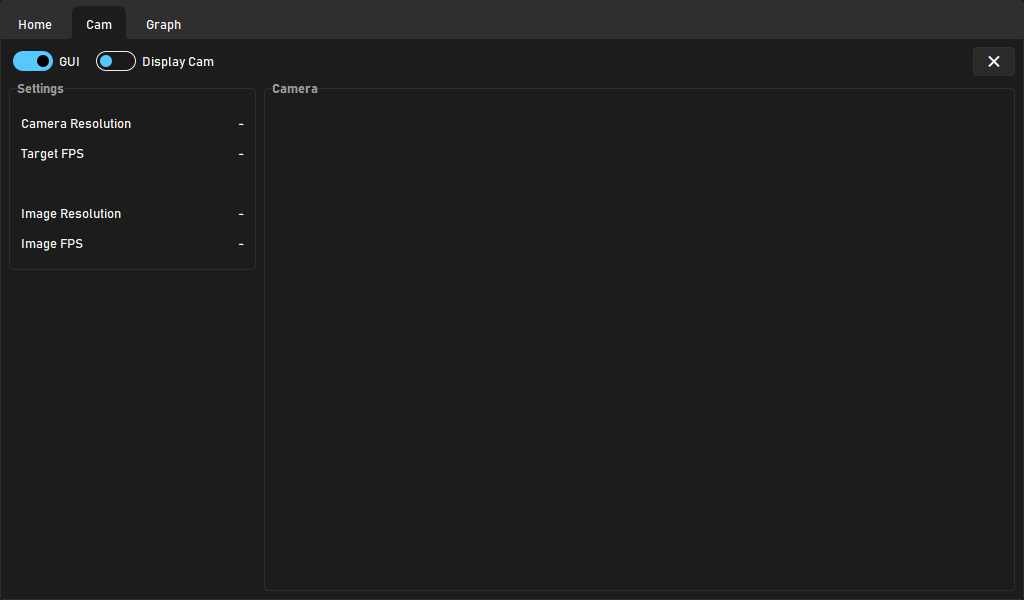
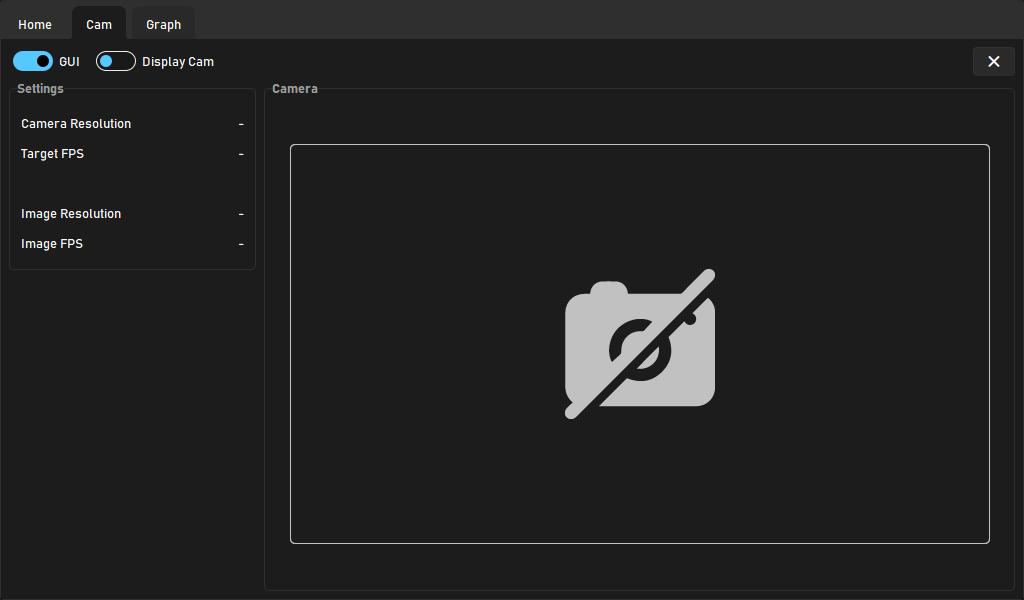
Update
- Changed Key Binds
- Added Photos

Changed region(s): [[0.5312, 0.45, 0.7188, 0.69]]

diff --git a/raspberry_main.py b/raspberry_main.py
@@ -184,10 +184,10 @@ def steering_cal():
         reading = read_steering_encoder(1)
         left_max_mean_left_encoder += reading
     left_max_mean_left_encoder /= 10
-    for _ in range(10):
-        reading = read_steering_encoder(0)
-        left_max_mean_right_encoder += reading
-    left_max_mean_right_encoder /= 10
+    # for _ in range(10):
+    #     reading = read_steering_encoder(0)
+    #     left_max_mean_right_encoder += reading
+    # left_max_mean_right_encoder /= 10
     
     # Steer to Max Right & Calibrate Both Potentiometer
     while not gpio.input(right_limit):
@@ -222,6 +222,39 @@ def steering_cal():
     print('Steering Calibration Complete')
 
 
+def steering_to_center():
+    global digital_steer
+
+    conn_jetson.send(bytes('angle' + str(0), encoding = 'utf-8'))
+    steer_to_angle(left_center_angle, 1)
+    
+    dic = {'steer_angle': 0}
+    
+    import shared_variables
+    update_dic(dic, shared_variables.steer_dic)
+    
+
+def steering(state):
+    global digital_steer
+    
+    if state == -1 and digital_steer > -5:
+        digital_steer -= 1
+    if state == 1 and digital_steer < 5:
+        digital_steer += 1
+        
+    conn_jetson.send(bytes('angle' + str(digital_steer), encoding = 'utf-8'))
+    steer_to_angle(left_steering_range / 10 * digital_steer + (left_center_angle), 1)
+    
+    dic = {'steer_angle': digital_steer * 3}
+    
+    import shared_variables
+    update_dic(dic, shared_variables.steer_dic)
+
+
+def update_dic(dic, shared_dic):
+    shared_dic.update(dic)
+
+
 def controller_command_handling():
     global digital_steer, terminate_socket, j, conn_jetson
     
@@ -236,21 +269,21 @@ def controller_command_handling():
                 keybindCommandDict[event.code](event.state)
             
             # BUTTONS OVERVIEW #
-            # CONTROL LOOP              >>> START_BTN
-            # DISCONNECT                >>> BACK_BTN
-            # STEER LEFTRIGHT           >>> ABS_HAY0X
-            # MOTOR FORWARD/BACKWARD    >>> ABS_HAYOY
-            # MOTOR CALIBRATION         >>> WEST_BTN (X)
-            # STEER CALIBRATION         >>> NORTH_BTN (Y)
-            # STEER TO CENTER           >>> SOUTH_BTN (A)
-            # MOTOR STOP                >>> EAST_BTN (B)
+            # CONTROL LOOP              >>> BTN_START
+            # DISCONNECT                >>> BTN_BACK
+            # STEER LEFT/RIGHT          >>> ABS_HAY0X (-1)(1)
+            # MOTOR FORWARD/BACKWARD    >>> ABS_HAYOY (-1)(1)
+            # STEER CALIBRATION         >>> BTN_NORTH (Y)
+            # STEER TO CENTER           >>> BTN_SOUTH (A)
+            # MOTOR STOP                >>> BTN_EAST (B)
+            # MOTOR CALIBRATION         >>> BTN_WEST (X)
             # START TRAINING            >>> BTN_TR
             # STOP TRAINING             >>> BTN_TL
             # ENABLE MOTOR CONTROL      >>> ABS_RZ & ABS_Z
             
             # Steering Calibration
             if event.code == 'BTN_START' and event.state == 1:
-                conn_jetson.send(b'calibration')
+                print('Control Loop')
             # Quit Program
             elif event.code == 'BTN_BACK' and event.state == 1:
                 set_motor_power(0)
@@ -263,18 +296,20 @@ def controller_command_handling():
                 return
               
             # Action Buttons (X)(Y)(A)(B)
-            elif event.code == 'BTN_EAST' and event.state == 1:
-                conn_jetson.send(b'stop')
-            elif event.code == 'BTN_WEST' and event.state == 1:
-                conn_jetson.send(b'start_training')
+            elif event.code == 'BTN_NORTH' and event.state == 1:
+                steering_cal()
             elif event.code == 'BTN_SOUTH' and event.state == 1:
                 steering_to_center()
+            elif event.code == 'BTN_EAST' and event.state == 1:
+                conn_jetson.send(b'motor_stop')
+            elif event.code == 'BTN_WEST' and event.state == 1:
+                conn_jetson.send(b'motor_calibration')
             
             # Trigger Buttons
             elif event.code == 'BTN_TR' and event.state == 1:
-                conn_jetson.send(b'stop_training')
+                conn_jetson.send(b'start_training')
             elif event.code == 'BTN_TL' and event.state == 1:
-                print('start capturing')
+                conn_jetson.send(b'stop_training')
                 
             # D-Pad Buttons
             # Patching Buttons with 3 States
@@ -308,40 +343,6 @@ def controller_command_handling():
                     keybindCommandDict[event.code+'_1'](0)
 
 
-def steering_to_center():
-    global digital_steer
-
-    conn_jetson.send(bytes('angle' + str(0), encoding = 'utf-8'))
-    steer_to_angle(left_center_angle, 1)
-    
-    dic = {'steer_angle': 0}
-    
-    import shared_variables
-    update_dic(dic, shared_variables.steer_dic)
-    
-
-
-def steering(state):
-    global digital_steer
-    
-    if state == -1 and digital_steer > -5:
-        digital_steer -= 1
-    if state == 1 and digital_steer < 5:
-        digital_steer += 1
-        
-    conn_jetson.send(bytes('angle' + str(digital_steer), encoding = 'utf-8'))
-    steer_to_angle(left_steering_range / 10 * digital_steer + (left_center_angle), 1)
-    
-    dic = {'steer_angle': digital_steer * 3}
-    
-    import shared_variables
-    update_dic(dic, shared_variables.steer_dic)
-
-
-def update_dic(dic, shared_dic):
-    shared_dic.update(dic)
-
-
 # Start Function as Background Thread
 def start_thread(name, target):
     thread = Thread(name=name, target=target, daemon=True)
@@ -368,7 +369,7 @@ def exit():
     gpio.cleanup()
     conn_jetson.send(b'disconnect')
     time.sleep(1)
-    
+
     terminate_socket = True
     conn_jetson.shutdown(socket.SHUT_RDWR)
     conn_jetson.close()

diff --git a/GUIs/LiveCam.py b/GUIs/LiveCam.py
@@ -27,7 +27,7 @@ def switchCamera(frame, toggle):
     elif toggle.get() == 0:
         camOn = False
         cap.release()
-        frame.configure(image='')
+        showCameraDisabled(frame)
 
 
 # showFrames() reads the captured frames and display them as a image using Pillow
@@ -43,6 +43,13 @@ def showFrames(frame):
         frame.imgtk = imgtk
         frame.configure(image=imgtk)
         frame.after(int(1000/data['imageSettings']['targetFPS']), lambda: showFrames(frame))
+
+
+# showCemeraDisbled() show camera-disabled.png
+def showCameraDisabled(frame):
+    photo = ImageTk.PhotoImage(file='./GUIs/Images/camera-disabled.png')
+    frame.photo = photo # Hold a reference to the TkInter object by attaching it to a widget(frame) attribute 
+    frame.configure(image=photo)
 
 
 # camSettings() gets the actual camera configurations

diff --git a/GUI.py b/GUI.py
@@ -617,9 +617,11 @@ class Tab2(ttk.Frame):
         class Box_2(ttk.Labelframe):
             def __init__(self, parent):
                 super().__init__(parent, text='Camera', padding=data['paddingSize']['labelFrame'])
-
+                
                 self.label = ttk.Label(self)
                 self.label.pack(expand=1)
+                
+                showCameraDisabled(self.label)
 
         # Set Layout UI Boxes
         self.columnconfigure(0, weight=1, uniform='1')

diff --git a/jetson_main.py b/jetson_main.py
@@ -36,10 +36,10 @@ cam = cv2.VideoCapture(0)
 
 
 command_instruction = {
-    'calibration':lambda:calibration_m1(),
+    'motor_calibration':lambda:calibration_m1(),
     'forward':lambda:move_m1(0.3),
     'reverse':lambda:move_m1(-0.3),
-    'stop':lambda:move_m1(0),
+    'motor_stop':lambda:move_m1(0),
     'disconnect':lambda:disconnect(),
     'start_training':lambda:start_training(),
     'stop_training':lambda:stop_training()

diff --git a/README.md b/README.md
@@ -2,14 +2,12 @@
 
 # DC Brushless DC Motor with Computer Vision
 
-<details>
-  <summary>Table of Contents</summary>
-  <ol>
-    <li><a href="#about-the-project">About The Project</a></li>
-    <li><a href="#how-to-control">How to Control</a></li>
-    <li><a href="#tkinter-gui">TkInter GUI</a></li>
-  </ol>
-</details>
+## Table of Contents
+<ol>
+  <li><a href="#about-the-project">About The Project</a></li>
+  <li><a href="#how-to-control">How to Control</a></li>
+  <li><a href="#tkinter-gui">TkInter GUI</a></li>
+</ol>
 
 ## About The Project
 This project aims to produce a system capable of controlling the vehicle with computer vision using behavioural cloning AI, to recognise roads and autonomously run on them.
@@ -20,20 +18,20 @@ This project aims to produce a system capable of controlling the vehicle with co
 The project uses a Logitech F710 controller to control the vehicle. The key mappings are shown below on the table. The Key ID is derived using a Python Package called [Inputs](https://inputs.readthedocs.io/en/latest/).
 
 | Controls             	| Key ID         	| Key          	|
-|----------------------	|----------------	|--------------	|
+|----------------------	|----------------	|:------------:	|
 | Enable Control Loop  	| BTN_START      	| Start        	|
 | Disconnect           	| BTN_BACK       	| Back         	|
-| Motor Forward        	| ABS_HAY0Y_-1   	| Up           	|
-| Motor Backwards      	| ABS_HAY0Y_1    	| Down         	|
-| Steer Left           	| ABS_HAY0X_-1   	| Left         	|
-| Steer Right          	| ABS_HAY0X_1    	| Right        	|
+| Motor Forward        	| ABS_HAY0Y_-1   	| ▲           	|
+| Motor Backwards      	| ABS_HAY0Y_1    	| ▼           	|
+| Steer Left           	| ABS_HAY0X_-1   	| ◀         	  |
+| Steer Right          	| ABS_HAY0X_1    	| ▶        	    |
 | Steer Calibration    	| BTN_NORTH      	| Y            	|
 | Steer to Center      	| BTN_SOUTH      	| A            	|
 | Motor Stop           	| BTN_EAST       	| B            	|
 | Motor Calibration    	| BTN_WEST       	| X            	|
-| Start Training       	| BTN_TL         	| Left Bumper  	|
-| Stop Training        	| BTN_TR         	| Right Bumper 	|
-| Enable Motor Control 	| ABS_Z & ABS_RZ 	| Triggers     	|
+| Start Training       	| BTN_TL         	| LB 	          |
+| Stop Training        	| BTN_TR         	| RB	          |
+| Enable Motor Control 	| ABS_Z & ABS_RZ 	| LT RT     	  |
 
 <p align="right">(<a href="#readme-top">back to top</a>)</p>
 
